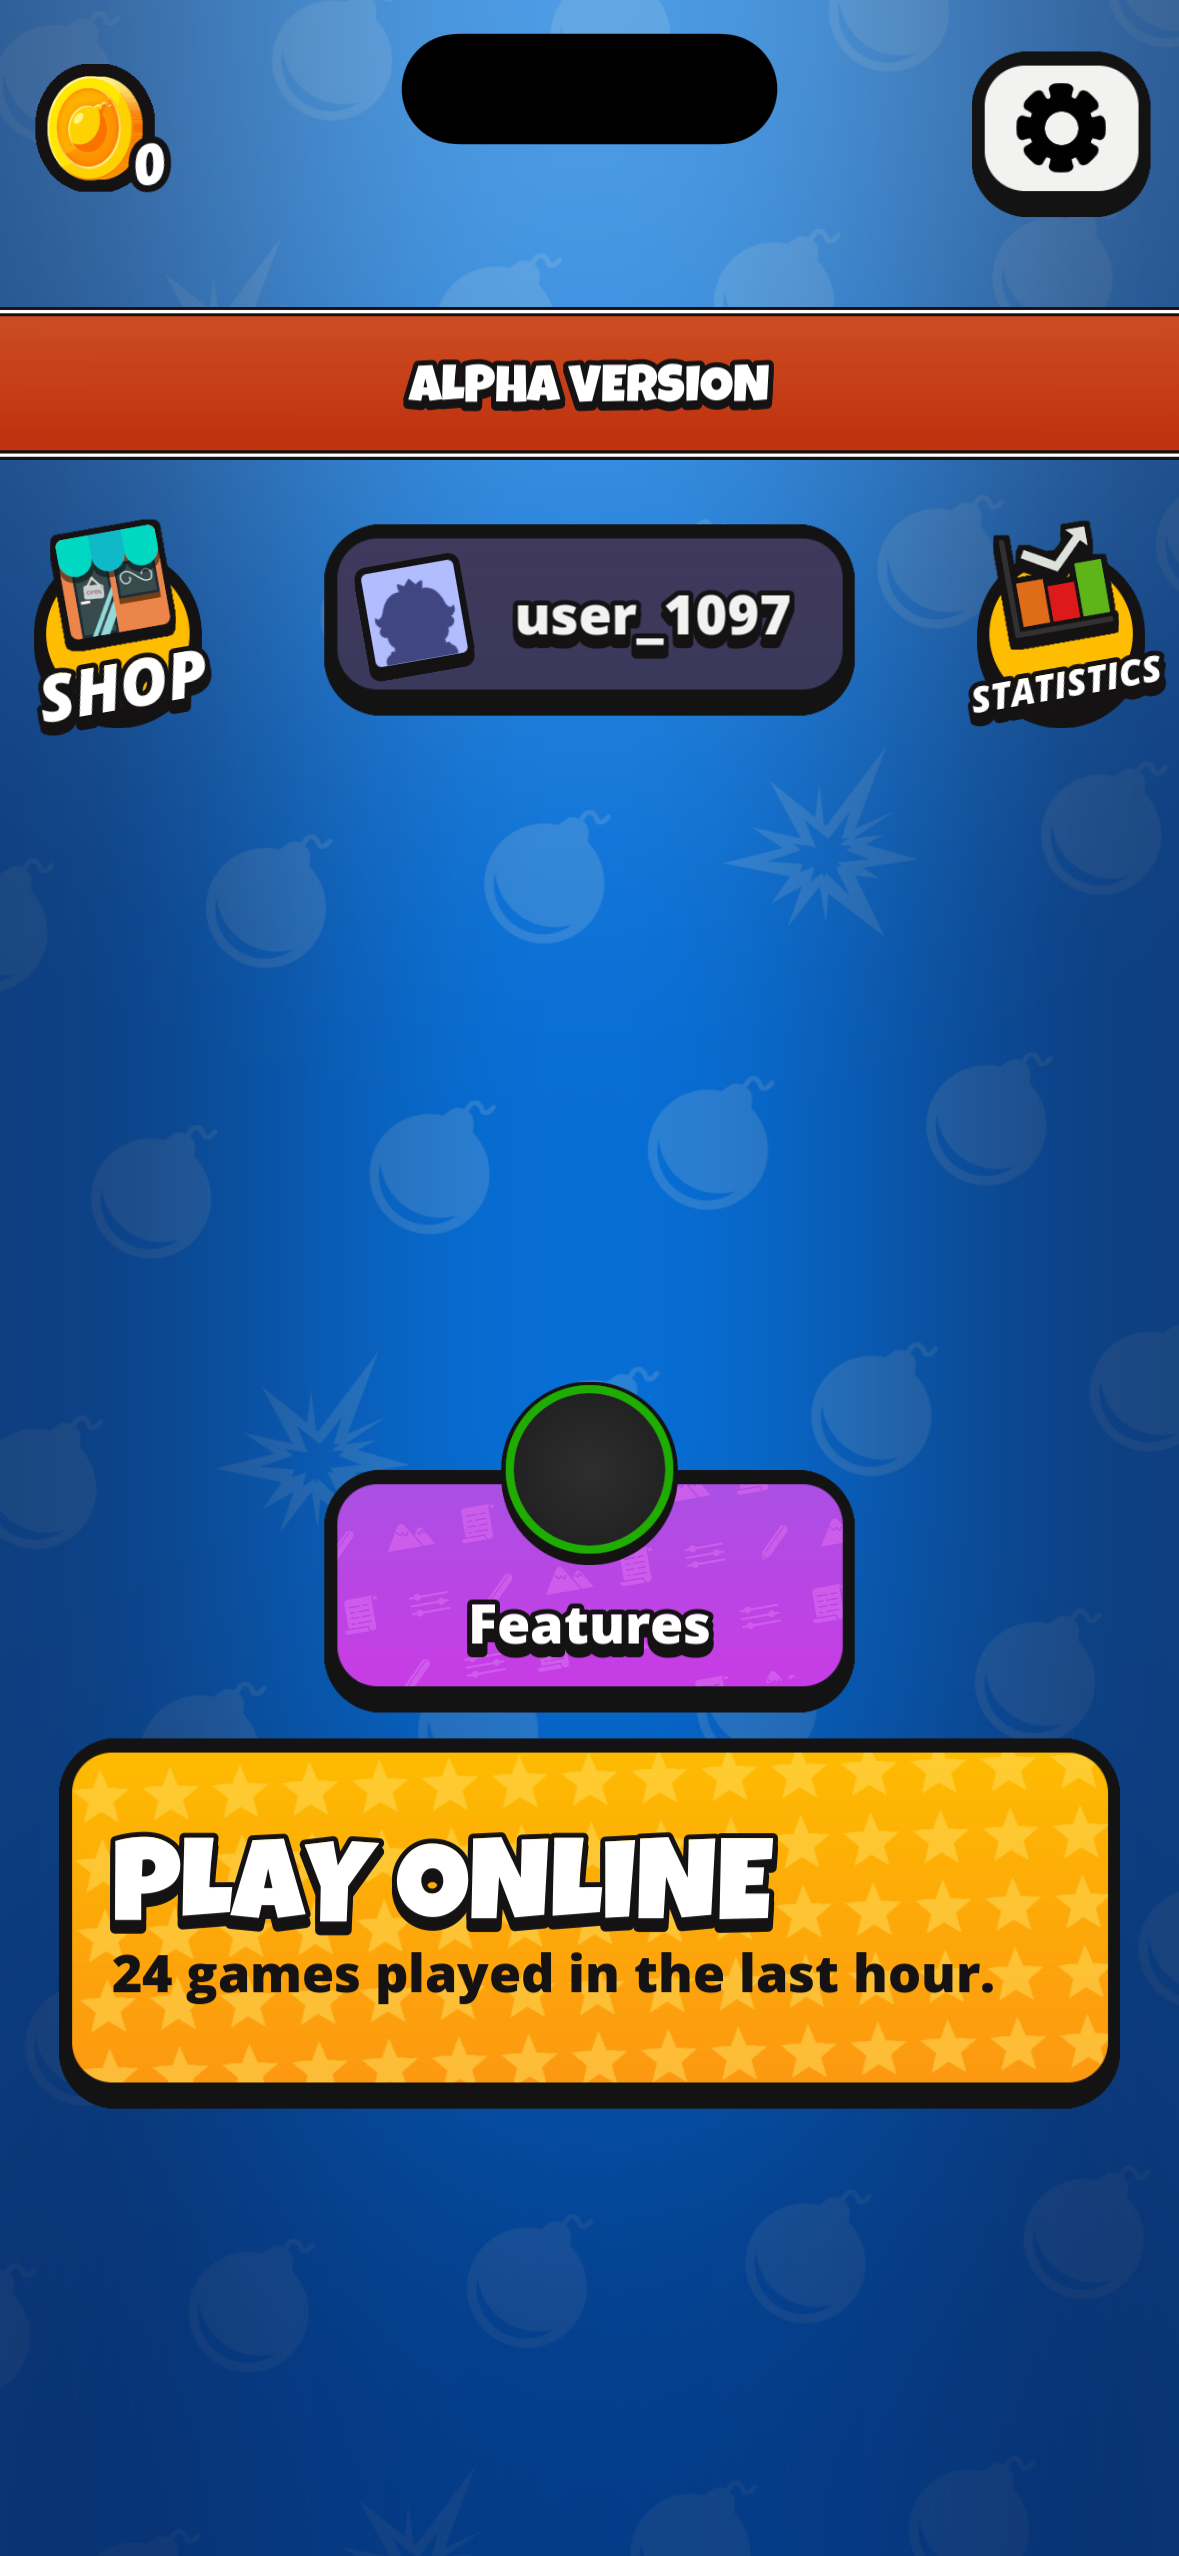
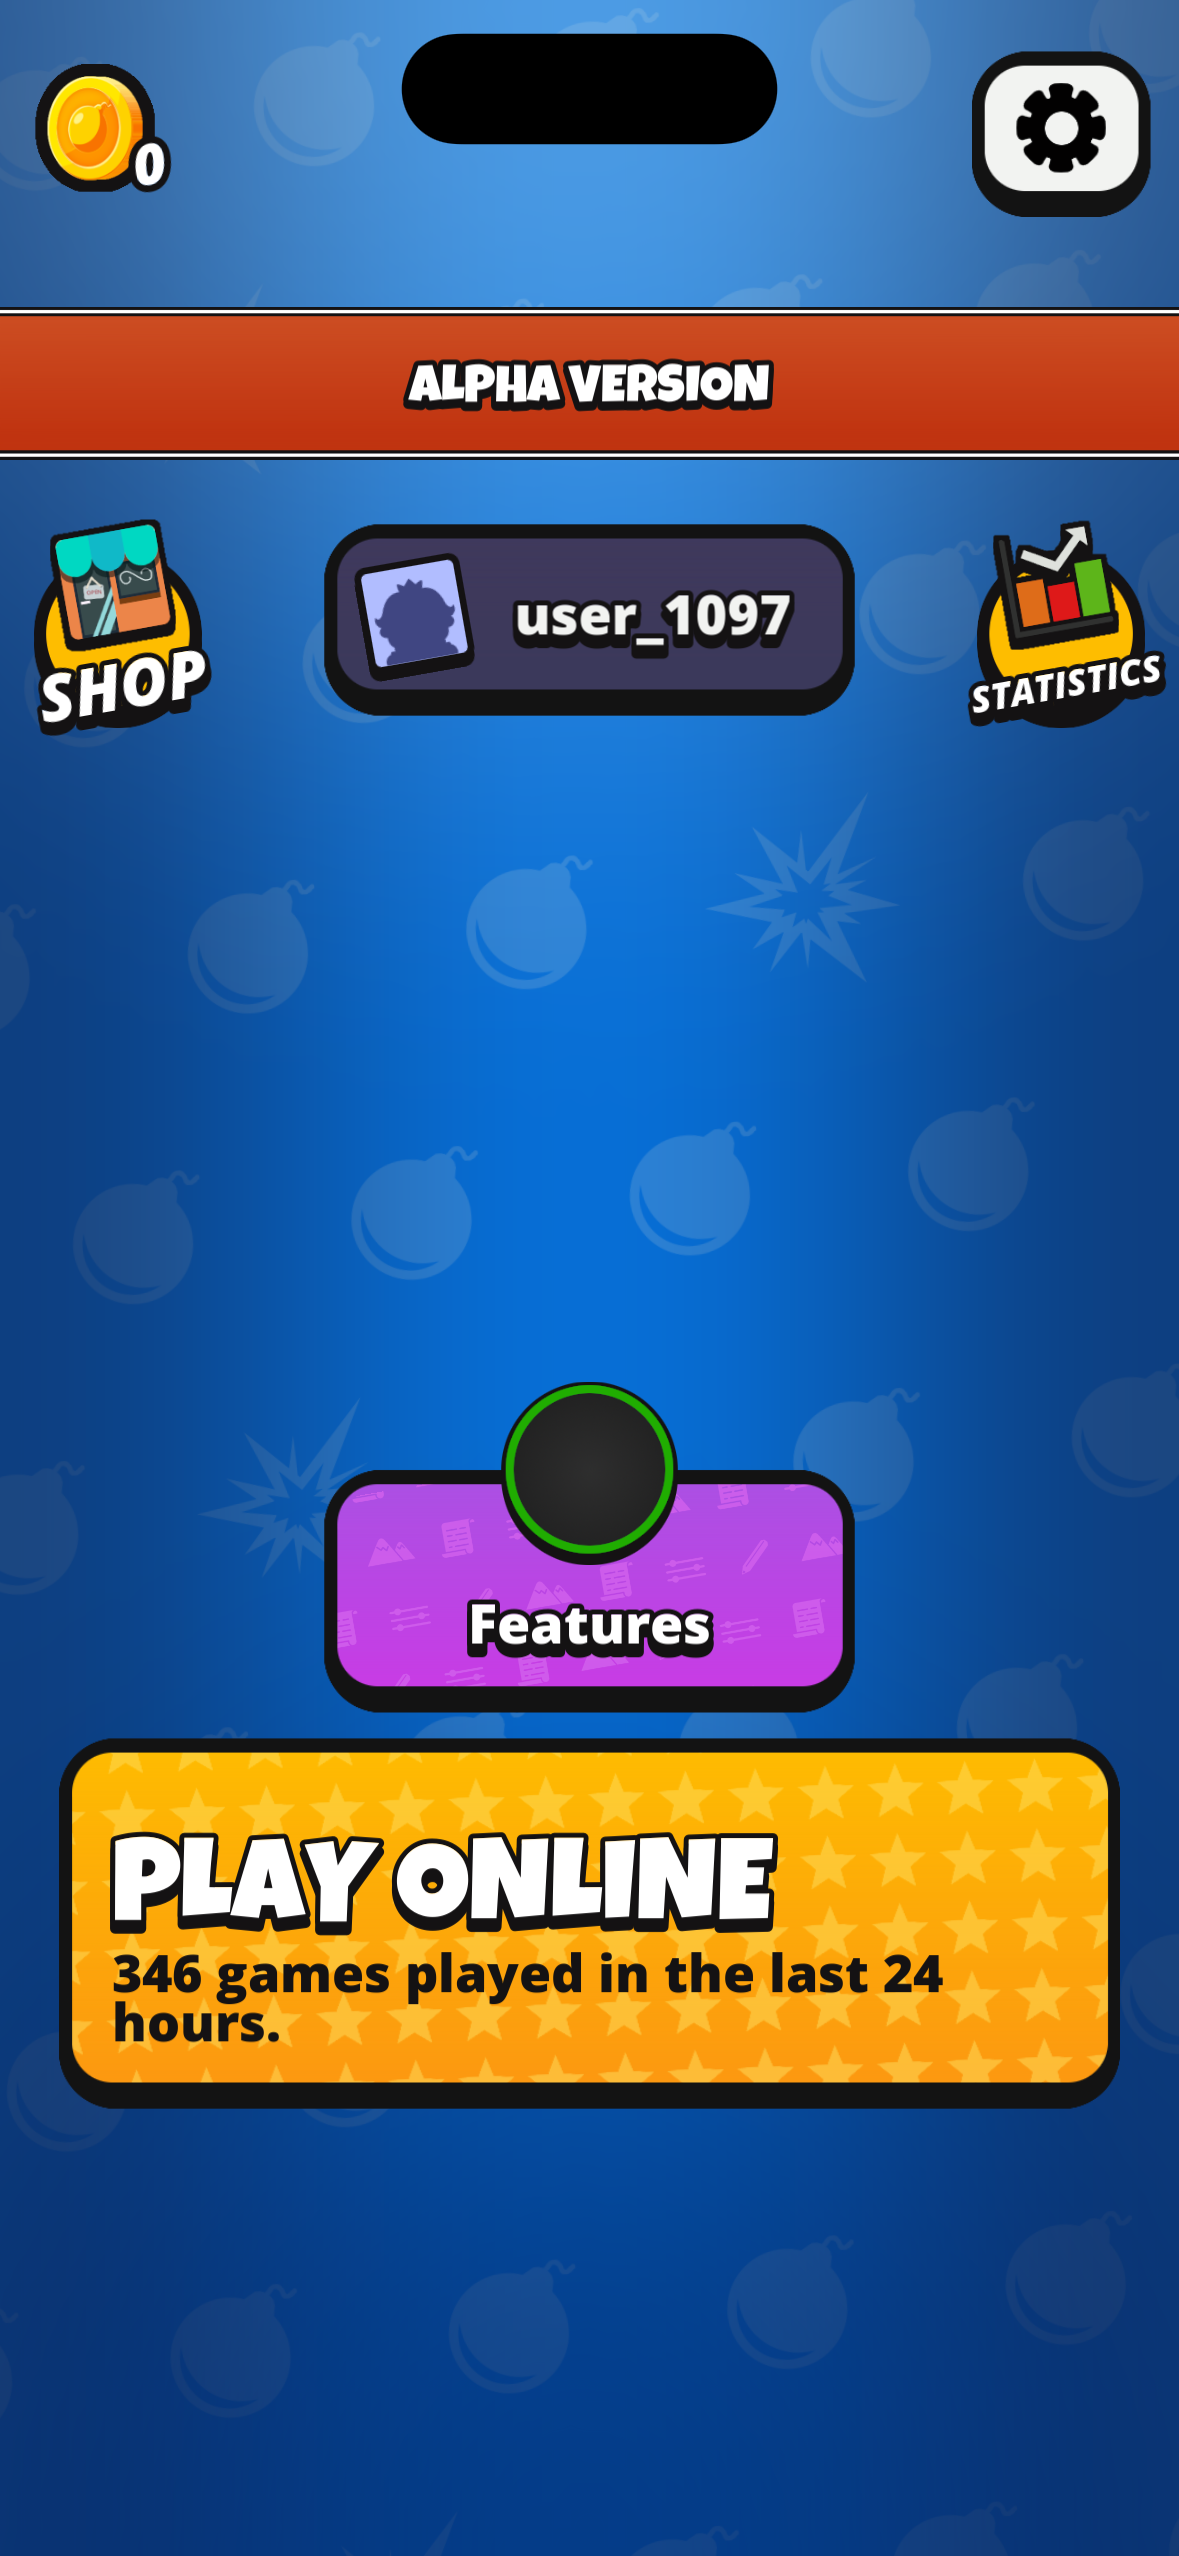
Make the Boost version one variable, and the server a switch
The script had been half-migrated: it downloaded 1.91.0, logged "downloading
1.89.0", and wrote its CMake package into lib/cmake/Boost-1.89.0 while pointing
the include directory at the 1.91.0 tree. It built anyway, because the package
is only a header path plus a version string, but the version it advertised was
not the version it used. Everything now derives from BOOST_VERSION, and both
build trees provably see a single boost-1.91.0.

The production server is no longer hard-coded in the script: BIM_PROD_BUILD and
BIM_SERVER_URL pass through with production defaults, so a staging build is one
environment variable away. Evidence screenshot refreshed from a run against
bim-prod, which now reports 346 games played in the last 24 hours - a number
only the server has.

diff --git a/01_port/BUILD.md b/01_port/BUILD.md
@@ -121,11 +121,28 @@ appeared while getting the first frame onto the screen.
    and `prepare-tree.sh` casts the three `"slot_index" = i` assignments in the two feature
    slot jobs.
 
-4. **The build must be a production build.** Without `-DBIM_PROD_BUILD=ON` the binary
+4. **A production build is the default, and it is a switch.** Without `-DBIM_PROD_BUILD=ON` the binary
    points at `http://localhost:4210` and shows "Failed to authenticate with the business
-   server. Status -1." `build-app.sh` sets `BIM_PROD_BUILD=ON` and pins
-   `BIM_BUSINESS_SERVER_URL=https://bim-prod.jorge.st` (it is a cache variable, so leaving
-   it to the default keeps the old value in `CMakeCache.txt`).
+   server. Status -1." `build-app.sh` passes `BIM_PROD_BUILD` and `BIM_BUSINESS_SERVER_URL`
+   through as `BIM_PROD_BUILD`/`BIM_SERVER_URL` environment variables, defaulting to
+   production. Both are CMake *cache* variables, so an existing `CMakeCache.txt` keeps the
+   old value unless the flag is passed again - which is exactly how the first attempt at
+   this kept talking to localhost after the flag was added.
+
+   ```bash
+   BIM_SERVER_URL=https://bim-stage.jorge.st BIM_PROD_BUILD=OFF 01_port/tools/build-app.sh
+   ```
+
+## Dependency versions have one source of truth
+
+`build-all.sh` derives the Boost tree, tarball, package directory and reported version from
+one variable (`BOOST_VERSION`, default 1.91.0, the version the pin asks for). Earlier the
+script had been half-migrated: it downloaded 1.91.0 and printed 1.89.0, and wrote the CMake
+package into `lib/cmake/Boost-1.89.0` while pointing its include directory at the 1.91.0
+tree. It built, because the package is only a header path, but the version it advertised was
+a lie. After the cleanup, both `build/iscool-ios-<arch>/build.ninja` and
+`build/bim-ios-<arch>/build.ninja` contain exactly one Boost tree, `boost-1.91.0`, and
+`Boost_DIR` names `lib/cmake/Boost-1.91.0`.
 
 ## What is verified, and how
 
